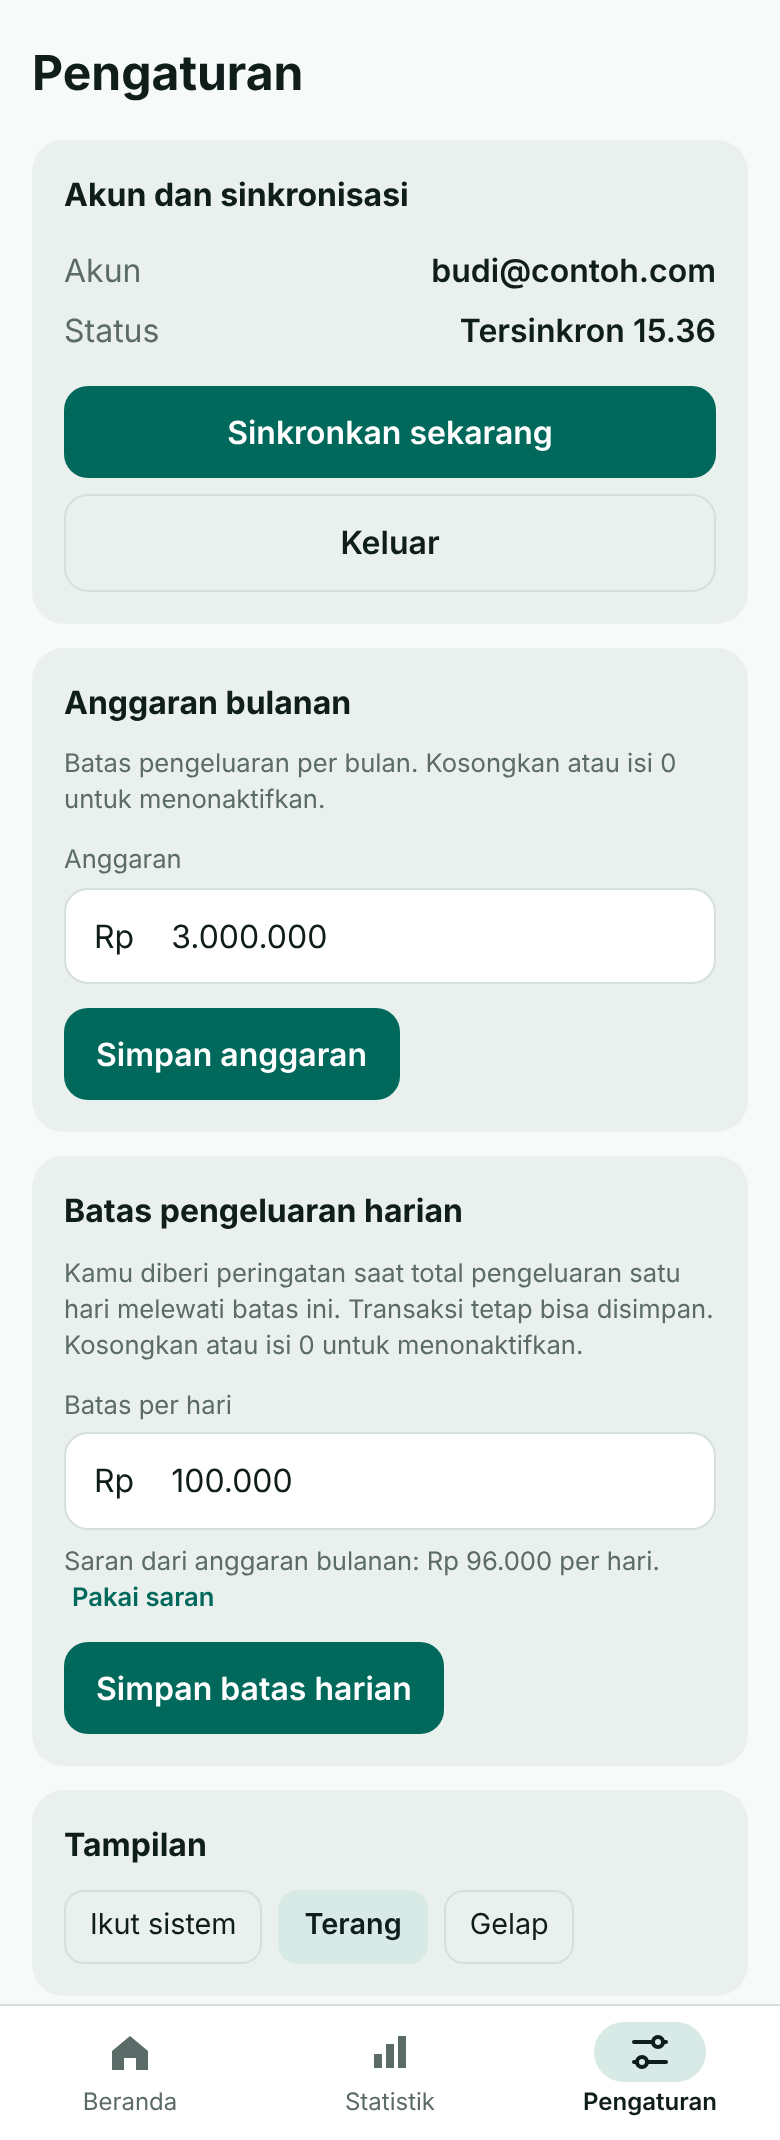
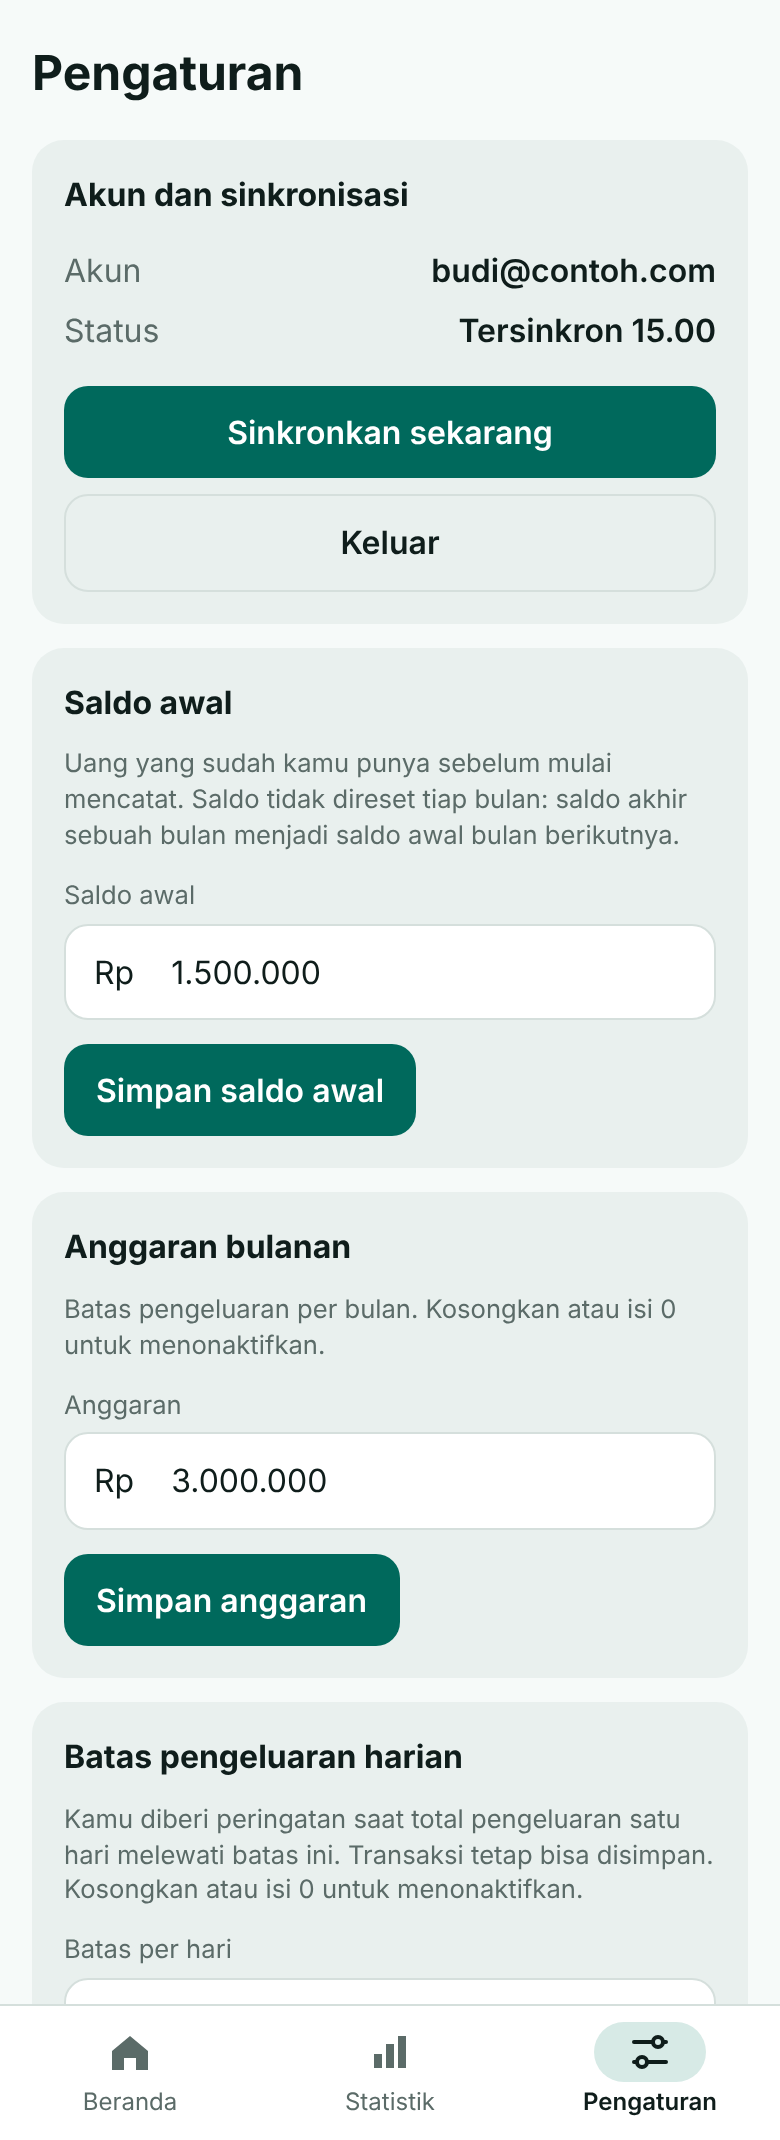
Tampilan harian, saldo berlanjut dengan saldo awal, sinkronisasi opening_balance
Claude-Session: https://claude.ai/code/session_01PoaaqTZ6TSVxPmi1eVRVKY

diff --git a/app.js b/app.js
@@ -66,7 +66,7 @@ function uuid() {
 }
 
 let transactions = store.load('kk.tx', []);
-const defaultSettings = () => ({ budget: 0, dailyLimit: 0, theme: 'system', customCats: { EXPENSE: [], INCOME: [] } });
+const defaultSettings = () => ({ budget: 0, dailyLimit: 0, openingBalance: 0, theme: 'system', customCats: { EXPENSE: [], INCOME: [] } });
 let settings = normalizeSettings(Object.assign(defaultSettings(), store.load('kk.settings', {})));
 
 function cleanCatList(list) {
@@ -78,12 +78,13 @@ function cleanCatList(list) {
   return out.slice(0, MAX_CUSTOM);
 }
 function normalizeSettings(st) {
+  st.openingBalance = Math.max(0, Number(st.openingBalance) || 0);
   const c = st.customCats || {};
   st.customCats = { EXPENSE: cleanCatList(c.EXPENSE), INCOME: cleanCatList(c.INCOME) };
   return st;
 }
 const hasCustomCats = () => settings.customCats.EXPENSE.length + settings.customCats.INCOME.length > 0;
-const hasSettings = () => settings.budget > 0 || settings.dailyLimit > 0 || settings.theme !== 'system' || hasCustomCats();
+const hasSettings = () => settings.budget > 0 || settings.openingBalance > 0 || settings.dailyLimit > 0 || settings.theme !== 'system' || hasCustomCats();
 
 // Daftar kategori bawaan + kustom. "Lainnya" selalu di paling akhir.
 function categoriesFor(type, extra) {
@@ -93,7 +94,7 @@ function categoriesFor(type, extra) {
   all.push('Lainnya');
   return all;
 }
-const ui = { tab: 'home', month: currentMonthIndex(), filter: 'all', query: '' };
+const ui = { tab: 'home', view: store.load('kk.view', 'month') === 'day' ? 'day' : 'month', month: currentMonthIndex(), day: Date.now(), filter: 'all', query: '' };
 let draft = null;
 let deferredInstall = null;
 
@@ -170,6 +171,19 @@ function fromDateInput(str) {
 const newId = () => uuid();
 const sorted = (list) => list.slice().sort((a, b) => b.date - a.date || (b.created || 0) - (a.created || 0));
 const monthItems = () => transactions.filter((t) => monthIndexOf(t.date) === ui.month);
+const dayItems = () => transactions.filter((t) => dayKey(t.date) === dayKey(ui.day));
+const viewItems = () => (ui.view === 'day' ? dayItems() : monthItems());
+
+// Saldo berlanjut: saldo awal (pengaturan) + semua transaksi sebelum periode yang dilihat
+const netOf = (t) => (t.type === IN ? t.amount : -t.amount);
+const balanceBeforeMonth = (idx) => (settings.openingBalance || 0) +
+  transactions.filter((t) => monthIndexOf(t.date) < idx).reduce((a, t) => a + netOf(t), 0);
+const balanceBeforeDay = (key) => (settings.openingBalance || 0) +
+  transactions.filter((t) => dayKey(t.date) < key).reduce((a, t) => a + netOf(t), 0);
+function shiftDay(ms, n) {
+  const d = new Date(ms);
+  return new Date(d.getFullYear(), d.getMonth(), d.getDate() + n, 12, 0, 0).getTime();
+}
 
 let toastTimer = null;
 function toast(msg) {
@@ -202,25 +216,50 @@ function monthSelector() {
     '</div>';
 }
 
-function summaryHtml(income, expense) {
-  const budget = settings.budget || 0;
-  let budgetHtml = '';
-  if (budget > 0) {
-    const ratio = expense / budget;
-    const cls = ratio >= 1 ? 'over' : ratio >= 0.8 ? 'warn' : '';
-    budgetHtml =
-      '<div class="budget">' +
-      '<div class="row-between"><span>Anggaran pengeluaran</span><span>' + fmtCompact(expense) + ' / ' + fmtCompact(budget) + '</span></div>' +
-      '<div class="progress"><div class="' + cls + '" style="width:' + Math.min(100, Math.max(0, ratio * 100)) + '%"></div></div>' +
-      '<div class="small" style="margin-top:4px;font-weight:600">' +
-      (expense <= budget ? 'Sisa ' + fmtRp(budget - expense) : 'Melebihi anggaran ' + fmtRp(expense - budget)) +
-      '</div></div>';
+function viewToggle() {
+  return '<div class="chips view-toggle">' +
+    chip('Bulanan', 'set-view', 'month', ui.view === 'month') +
+    chip('Harian', 'set-view', 'day', ui.view === 'day') + '</div>';
+}
+
+function daySelector() {
+  const isToday = dayKey(ui.day) === dayKey(Date.now());
+  const label = new Date(ui.day).toLocaleDateString('id-ID', { weekday: 'long', day: '2-digit', month: 'long', year: 'numeric' });
+  return '<div class="month">' +
+    '<button class="icon-btn" data-action="prev-day" aria-label="Hari sebelumnya">' + icon('left') + '</button>' +
+    '<button class="label day-label" data-action="this-day">' + esc(label) +
+    (isToday ? '<small>Hari ini</small>' : '<small>Ketuk untuk ke hari ini</small>') + '</button>' +
+    '<button class="icon-btn" data-action="next-day" aria-label="Hari berikutnya">' + icon('right') + '</button>' +
+    '</div>';
+}
+
+function summaryHtml(opening, income, expense) {
+  const day = ui.view === 'day';
+  const closing = opening + income - expense;
+  const period = day ? 'hari ini' : 'bulan ini';
+  let extra = '';
+  if (!day) {
+    const budget = settings.budget || 0;
+    if (budget > 0) {
+      const ratio = expense / budget;
+      const cls = ratio >= 1 ? 'over' : ratio >= 0.8 ? 'warn' : '';
+      extra =
+        '<div class="budget">' +
+        '<div class="row-between"><span>Anggaran pengeluaran</span><span>' + fmtCompact(expense) + ' / ' + fmtCompact(budget) + '</span></div>' +
+        '<div class="progress"><div class="' + cls + '" style="width:' + Math.min(100, Math.max(0, ratio * 100)) + '%"></div></div>' +
+        '<div class="small" style="margin-top:4px;font-weight:600">' +
+        (expense <= budget ? 'Sisa ' + fmtRp(budget - expense) : 'Melebihi anggaran ' + fmtRp(expense - budget)) +
+        '</div></div>';
+    }
   }
-  return '<div class="card hero"><div class="lbl">Saldo ' + monthLabel(ui.month) + '</div>' +
-    '<div class="big">' + fmtRp(income - expense) + '</div>' + budgetHtml + '</div>' +
+  const title = day ? 'Saldo akhir ' + new Date(ui.day).toLocaleDateString('id-ID', { day: 'numeric', month: 'short', year: 'numeric' })
+                    : 'Saldo akhir ' + monthLabel(ui.month);
+  return '<div class="card hero"><div class="lbl">' + esc(title) + '</div>' +
+    '<div class="big">' + fmtRp(closing) + '</div>' +
+    '<div class="small opening">Saldo awal ' + (day ? 'hari' : 'bulan') + ': ' + fmtRp(opening) + '</div>' + extra + '</div>' +
     '<div class="grid2">' +
-    '<div class="card"><div class="lbl">Pemasukan</div><div class="val in">' + fmtRp(income) + '</div></div>' +
-    '<div class="card"><div class="lbl">Pengeluaran</div><div class="val out">' + fmtRp(expense) + '</div></div>' +
+    '<div class="card"><div class="lbl">Pemasukan ' + period + '</div><div class="val in">' + fmtRp(income) + '</div></div>' +
+    '<div class="card"><div class="lbl">Pengeluaran ' + period + '</div><div class="val out">' + fmtRp(expense) + '</div></div>' +
     '</div>';
 }
 
@@ -236,7 +275,7 @@ function listHtml(items) {
     return typeOk && queryOk;
   });
   if (!shown.length) {
-    return '<div class="empty">' + (items.length ? 'Tidak ada transaksi yang cocok.' : 'Belum ada transaksi di bulan ini.\nTekan + untuk menambah.') + '</div>';
+    return '<div class="empty">' + (items.length ? 'Tidak ada transaksi yang cocok.' : (ui.view === 'day' ? 'Belum ada transaksi di hari ini.' : 'Belum ada transaksi di bulan ini.') + '\nTekan + untuk menambah.') + '</div>';
   }
   const groups = [];
   shown.forEach((t) => {
@@ -263,9 +302,10 @@ function listHtml(items) {
 }
 
 function renderHome() {
-  const items = monthItems();
-  return monthSelector() +
-    summaryHtml(sum(items, IN), sum(items, OUT)) +
+  const items = viewItems();
+  const opening = ui.view === 'day' ? balanceBeforeDay(dayKey(ui.day)) : balanceBeforeMonth(ui.month);
+  return viewToggle() + (ui.view === 'day' ? daySelector() : monthSelector()) +
+    summaryHtml(opening, sum(items, IN), sum(items, OUT)) +
     dailyCard() +
     '<div class="toolbar">' +
     '<div class="search"><input id="q" type="search" placeholder="Cari kategori atau catatan" value="' + esc(ui.query) + '" autocomplete="off"></div>' +
@@ -311,6 +351,8 @@ function renderStats() {
 
   return monthSelector() + '<div class="stack">' +
     '<div class="card"><h2>Ringkasan ' + monthLabel(ui.month) + '</h2>' +
+    '<div class="line"><span>Saldo awal bulan</span><span>' + fmtRp(balanceBeforeMonth(ui.month)) + '</span></div>' +
+    '<div class="line"><span>Saldo akhir bulan</span><span>' + fmtRp(balanceBeforeMonth(ui.month) + totalIn - totalOut) + '</span></div>' +
     '<div class="line"><span>Jumlah transaksi</span><span>' + items.length + '</span></div>' +
     '<div class="line"><span>Rata-rata pengeluaran per hari</span><span>' + fmtRp(avg) + '</span></div>' +
     '<div class="line"><span>Pengeluaran terbesar</span><span>' + (biggest ? esc(biggest.category) + ' • ' + fmtRp(biggest.amount) : '-') + '</span></div>' +
@@ -335,6 +377,11 @@ function renderStats() {
 function renderSettings() {
   return '<h1>Pengaturan</h1><div class="stack">' +
     accountCard() +
+    '<div class="card"><h2>Saldo awal</h2>' +
+    '<div class="muted small">Uang yang sudah kamu punya sebelum mulai mencatat. Saldo tidak direset tiap bulan: saldo akhir sebuah bulan menjadi saldo awal bulan berikutnya.</div>' +
+    '<label class="field"><span>Saldo awal</span><div class="money">Rp&nbsp;<input id="opening-input" data-money inputmode="numeric" autocomplete="off" value="' +
+    (settings.openingBalance > 0 ? settings.openingBalance.toLocaleString('id-ID') : '') + '"></div></label>' +
+    '<div style="margin-top:12px"><button class="btn" data-action="save-opening">Simpan saldo awal</button></div></div>' +
     '<div class="card"><h2>Anggaran bulanan</h2>' +
     '<div class="muted small">Batas pengeluaran per bulan. Kosongkan atau isi 0 untuk menonaktifkan.</div>' +
     '<label class="field"><span>Anggaran</span><div class="money">Rp&nbsp;<input id="budget-input" data-money inputmode="numeric" autocomplete="off" value="' +
@@ -450,6 +497,7 @@ function saveSheet() {
   saveTx();
   queueUpsert(savedId);
   ui.month = monthIndexOf(dateMs);
+  ui.day = dateMs;
   const lim = settings.dailyLimit || 0;
   const overLimit = d.type === OUT && lim > 0 && dayExpense(dayKey(dateMs), null) > lim;
   closeSheet();
@@ -561,7 +609,7 @@ function summaryText() {
   const byCat = {};
   items.filter((t) => t.type === OUT).forEach((t) => { byCat[t.category] = (byCat[t.category] || 0) + t.amount; });
   const cats = Object.keys(byCat).map((k) => [k, byCat[k]]).sort((a, b) => b[1] - a[1]);
-  let text = 'Ringkasan keuangan ' + monthLabel(ui.month) + '\nPemasukan: ' + fmtRp(inc) + '\nPengeluaran: ' + fmtRp(exp) + '\nSaldo: ' + fmtRp(inc - exp);
+  let text = 'Ringkasan keuangan ' + monthLabel(ui.month) + '\nSaldo awal: ' + fmtRp(balanceBeforeMonth(ui.month)) + '\nPemasukan: ' + fmtRp(inc) + '\nPengeluaran: ' + fmtRp(exp) + '\nSaldo akhir: ' + fmtRp(balanceBeforeMonth(ui.month) + inc - exp);
   if (cats.length) text += '\n\nPengeluaran per kategori:\n' + cats.map(([k, v]) => '- ' + k + ': ' + fmtRp(v)).join('\n');
   return text;
 }
@@ -588,6 +636,27 @@ document.addEventListener('click', (e) => {
 
   switch (action) {
     case 'tab': ui.tab = value; render(); window.scrollTo(0, 0); break;
+    case 'set-view':
+      if (value !== ui.view) {
+        if (value === 'day') {
+          ui.day = ui.month === currentMonthIndex() ? Date.now() : new Date(Math.floor(ui.month / 12), ui.month % 12, 1, 12).getTime();
+        } else {
+          ui.month = monthIndexOf(ui.day);
+        }
+        ui.view = value;
+        store.save('kk.view', value);
+        render();
+      }
+      break;
+    case 'prev-day': ui.day = shiftDay(ui.day, -1); ui.month = monthIndexOf(ui.day); render(); break;
+    case 'next-day': ui.day = shiftDay(ui.day, 1); ui.month = monthIndexOf(ui.day); render(); break;
+    case 'this-day': ui.day = Date.now(); ui.month = currentMonthIndex(); render(); break;
+    case 'save-opening':
+      settings.openingBalance = parseMoney($('#opening-input').value);
+      saveSettings();
+      toast('Saldo awal disimpan');
+      render();
+      break;
     case 'prev-month': ui.month--; render(); break;
     case 'next-month': ui.month++; render(); break;
     case 'this-month': ui.month = currentMonthIndex(); render(); break;
@@ -722,7 +791,7 @@ document.addEventListener('input', (e) => {
     authState.email = el.value;
   } else if (el.id === 'q') {
     ui.query = el.value;
-    $('#list').innerHTML = listHtml(monthItems());
+    $('#list').innerHTML = listHtml(viewItems());
   }
 });
 
@@ -878,6 +947,7 @@ async function flushOutbox() {
         budget: settings.budget || 0,
         daily_limit: settings.dailyLimit || 0,
         custom_categories: settings.customCats,
+        opening_balance: settings.openingBalance || 0,
         theme: settings.theme || 'system',
         updated_at: new Date().toISOString()
       };
@@ -886,6 +956,7 @@ async function flushOutbox() {
         // Kolom baru belum ada di database: simpan pengaturan lainnya saja
         delete payload.daily_limit;
         delete payload.custom_categories;
+        delete payload.opening_balance;
         res = await sb.from('user_settings').upsert(payload, { onConflict: 'user_id' });
       }
       chk(res);
@@ -926,6 +997,7 @@ async function pullAll() {
     if (srv.length) {
       settings.budget = Number(srv[0].budget) || 0;
       if ('daily_limit' in srv[0]) settings.dailyLimit = Number(srv[0].daily_limit) || 0;
+      if ('opening_balance' in srv[0]) settings.openingBalance = Math.max(0, Number(srv[0].opening_balance) || 0);
       if (srv[0].custom_categories && typeof srv[0].custom_categories === 'object') {
         settings.customCats = normalizeSettings({ customCats: srv[0].custom_categories }).customCats;
       }
@@ -1186,18 +1258,22 @@ function dayExpense(key, excludeId) {
     .reduce((a, t) => a + t.amount, 0);
 }
 
-// Kartu "hari ini" di Beranda (hanya saat melihat bulan berjalan)
+// Kartu batas harian di Beranda: tampilan harian = hari yang dipilih; bulanan = hanya bulan berjalan
 function dailyCard() {
   const lim = settings.dailyLimit || 0;
-  if (!lim || ui.month !== currentMonthIndex()) return '';
-  const spent = dayExpense(dayKey(Date.now()), null);
+  const dayView = ui.view === 'day';
+  if (!lim || (!dayView && ui.month !== currentMonthIndex())) return '';
+  const key = dayView ? dayKey(ui.day) : dayKey(Date.now());
+  const isToday = key === dayKey(Date.now());
+  const when = isToday ? 'hari ini' : 'tanggal ' + new Date(dayView ? ui.day : Date.now()).toLocaleDateString('id-ID', { day: 'numeric', month: 'short' });
+  const spent = dayExpense(key, null);
   const ratio = spent / lim;
   const cls = ratio >= 1 ? 'over' : ratio >= 0.8 ? 'warn' : '';
   return '<div class="card" style="margin-top:12px">' +
-    '<div class="row-between"><span class="lbl">Pengeluaran hari ini</span><span class="lbl">' + fmtCompact(spent) + ' / ' + fmtCompact(lim) + '</span></div>' +
+    '<div class="row-between"><span class="lbl">Pengeluaran ' + when + '</span><span class="lbl">' + fmtCompact(spent) + ' / ' + fmtCompact(lim) + '</span></div>' +
     '<div class="progress"><div class="' + cls + '" style="width:' + Math.min(100, Math.max(0, ratio * 100)) + '%"></div></div>' +
     '<div class="small" style="margin-top:6px;font-weight:600">' +
-    (spent <= lim ? 'Sisa batas hari ini ' + fmtRp(lim - spent) : 'Melebihi batas hari ini ' + fmtRp(spent - lim)) +
+    (spent <= lim ? 'Sisa batas ' + when + ' ' + fmtRp(lim - spent) : 'Melebihi batas ' + when + ' ' + fmtRp(spent - lim)) +
     '</div></div>';
 }
 

diff --git a/styles.css b/styles.css
@@ -261,3 +261,9 @@ svg.i { width: 24px; height: 24px; display: block; }
 }
 .add-cat { display: flex; gap: 8px; margin-top: 10px; }
 .add-cat .input { flex: 1; min-width: 0; }
+
+/* ---------- Tampilan bulanan / harian, saldo awal ---------- */
+.view-toggle { margin: 0 0 8px; justify-content: center; }
+.view-toggle .chip { min-width: 96px; text-align: center; }
+.month .label.day-label { font-size: 1.05rem; }
+.card.hero .opening { margin-top: 6px; opacity: 0.85; }

diff --git a/sw.js b/sw.js
@@ -1,7 +1,7 @@
 // Service worker: aplikasi bisa dibuka offline.
 // Strategi: ambil versi terbaru dari jaringan (maks. 4 detik); jika offline atau lambat,
 // pakai salinan di cache. Dengan begitu pembaruan langsung terlihat saat online.
-const CACHE = 'keuanganku-v5';
+const CACHE = 'keuanganku-v6';
 const ASSETS = [
   './',
   'index.html',

diff --git a/README.md b/README.md
@@ -19,6 +19,7 @@ tetap berjalan tanpa internet, dan (opsional) menyinkronkan data ke semua perang
     <td align="center"><img src="docs/screenshots/mode-gelap.png" width="220" alt="Mode gelap"><br><sub>Mode gelap</sub></td>
   </tr>
   <tr>
+    <td align="center"><img src="docs/screenshots/harian.png" width="220" alt="Tampilan harian"><br><sub>Tampilan harian dengan saldo awal dan akhir</sub></td>
     <td align="center"><img src="docs/screenshots/kategori-kustom.png" width="220" alt="Kategori kustom"><br><sub>Kategori kustom</sub></td>
   </tr>
 </table>
@@ -28,7 +29,8 @@ Tangkapan layar memakai data contoh.
 ## Fitur
 
 - **Transaksi:** tambah, ubah, hapus. Nominal dengan pemisah ribuan, kategori, tanggal, dan catatan.
-- **Beranda:** pindah antar bulan, pencarian, filter pemasukan/pengeluaran, riwayat dikelompokkan per hari.
+- **Beranda:** pilih tampilan **Bulanan** atau **Harian**, pindah antar bulan atau antar hari, pencarian, filter pemasukan/pengeluaran, riwayat dikelompokkan per hari. Pilihan tampilan diingat.
+- **Saldo berlanjut (tidak reset tiap bulan):** saldo akhir sebuah bulan (atau hari) otomatis menjadi saldo awal periode berikutnya. Isi **Saldo awal** di Pengaturan untuk uang yang sudah Anda punya sebelum mulai mencatat. Transaksi lama tidak diubah, hanya cara menghitung saldonya.
 - **Anggaran bulanan** dengan progress bar yang berubah warna saat mendekati batas.
 - **Batas pengeluaran harian:** kartu "hari ini", petunjuk sisa batas saat mengisi transaksi, peringatan saat melewati batas, dan penanda hari yang melewati batas. Ada saran batas dari anggaran bulanan.
 - **Kategori kustom:** tambah dan hapus kategori sendiri (pengeluaran dan pemasukan) di Pengaturan, maksimal 20 per jenis dan 20 karakter per nama. Tampil di form transaksi sebelum "Lainnya", ikut statistik, dan ikut tersinkron. Menghapus kategori tidak mengubah transaksi lama.
@@ -58,13 +60,14 @@ Aplikasi berjalan dalam mode lokal selama `config.js` kosong. Untuk mengaktifkan
 3. Isi `config.js` dengan **Project URL** dan kunci **anon/publishable**.
 4. Commit dan push. Aplikasi akan menampilkan layar login.
 
-**Database sudah dibuat sebelumnya?** Fitur kategori kustom butuh kolom `custom_categories`. Jalankan di SQL Editor:
+**Database sudah dibuat sebelumnya?** Kategori kustom dan saldo awal butuh dua kolom tambahan. Jalankan di SQL Editor:
 
 ```sql
 alter table public.user_settings add column if not exists custom_categories jsonb not null default '{}'::jsonb;
+alter table public.user_settings add column if not exists opening_balance bigint not null default 0;
 ```
 
-Tanpa kolom ini aplikasi tetap jalan, hanya kategori kustom tidak tersinkron antar perangkat.
+Tanpa kolom ini aplikasi tetap jalan, hanya kategori kustom dan saldo awal tidak tersinkron antar perangkat.
 
 **Cara kerja:** offline-first. Aplikasi selalu membaca dari data di perangkat. Setiap perubahan masuk ke antrean
 dan dikirim saat online, lalu data terbaru ditarik dari server. Perubahan yang belum terkirim tidak tertimpa.
